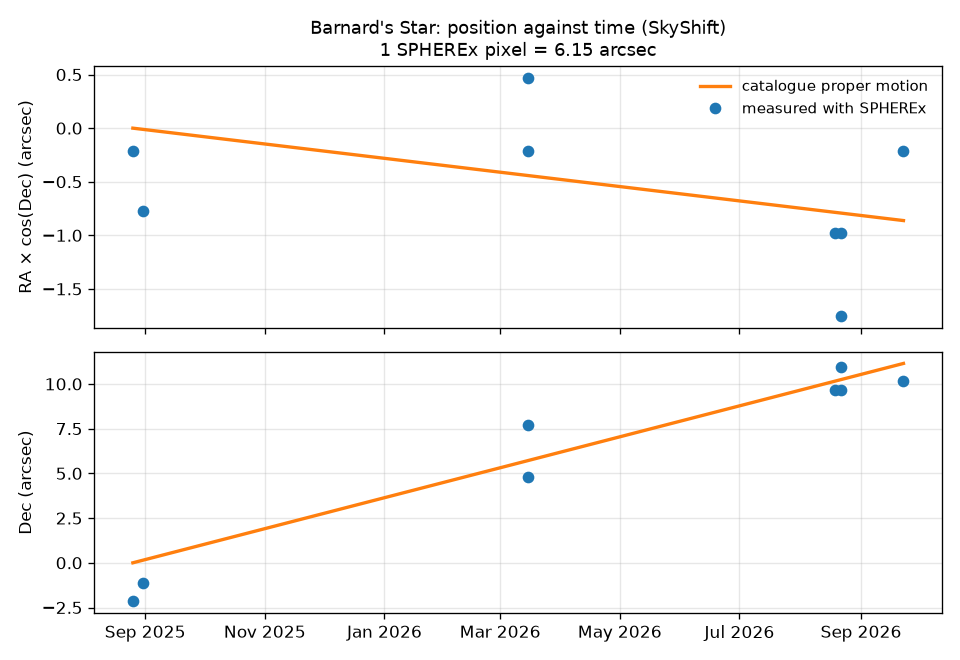
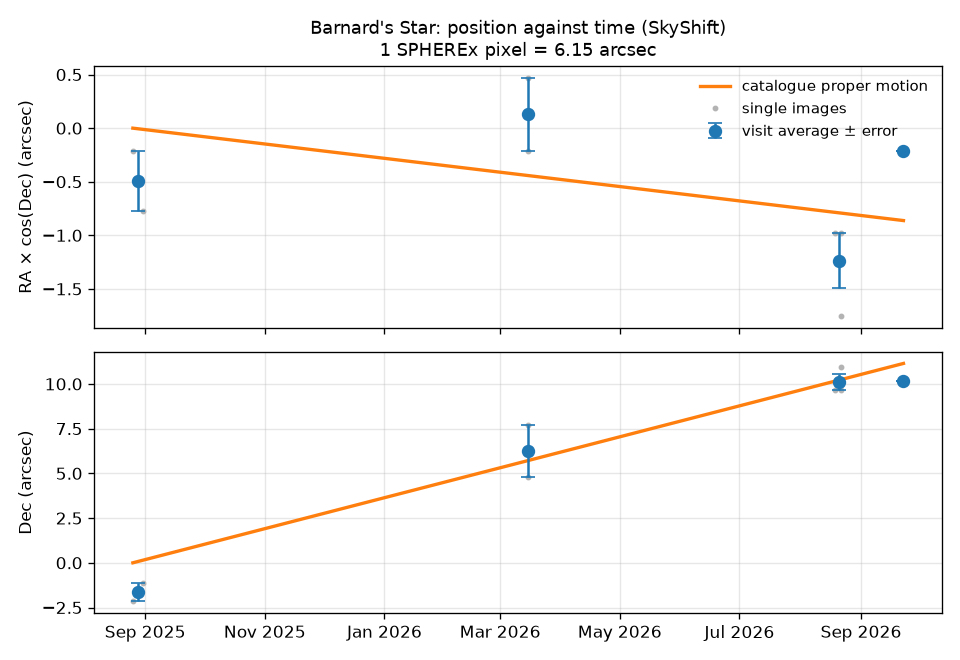
Plots against time: one point per visit with its error bar

diff --git a/pipeline/plot_time.py b/pipeline/plot_time.py
@@ -32,6 +32,27 @@ MOVERS = {"barnard", "eps-indi-b", "wise-0855-stacked"}  # objects whose motion 
 SKIP = {"wise-0855"}  # too faint in single images: use wise-0855-stacked
 
 
+def visits(frames, gap_days=30):
+    """Group frames (sorted by date) into SPHEREx visits separated by more than gap_days."""
+    frames = sorted(frames, key=lambda f: f["mjd"])
+    groups = [[frames[0]]]
+    for f in frames[1:]:
+        if f["mjd"] - groups[-1][-1]["mjd"] > gap_days:
+            groups.append([])
+        groups[-1].append(f)
+    return groups
+
+
+def summary(values):
+    """Mean and its uncertainty (standard deviation / sqrt(n)); None if a single value."""
+    n = len(values)
+    mean = sum(values) / n
+    if n < 2:
+        return mean, None
+    sd = math.sqrt(sum((v - mean) ** 2 for v in values) / (n - 1))
+    return mean, sd / math.sqrt(n)
+
+
 def usable(frame):
     m = frame.get("measured")
     return m is not None and frame.get("detected", True)
@@ -54,7 +75,15 @@ def plot_motion(manifest, out):
     fig, axes = plt.subplots(2, 1, figsize=(8, 5.5), dpi=120, sharex=True)
     for k, (ax, label) in enumerate(zip(axes, ["RA × cos(Dec)", "Dec"])):
         ax.plot(dates, [p[k] for p in pred], "-", color="C1", lw=2, label="catalogue proper motion")
-        ax.plot(dates, [m[k] for m in meas], "o", color="C0", ms=6, label="measured with SPHEREx")
+        ax.plot(dates, [m[k] for m in meas], ".", color="0.7", ms=5, label="single images")
+        vx, vy, ve = [], [], []
+        for g in visits(frames):
+            vals = [offsets(f["measured"])[k] for f in g]
+            mean, err = summary(vals)
+            vx.append(Time(sum(f["mjd"] for f in g) / len(g), format="mjd").datetime)
+            vy.append(mean)
+            ve.append(err or 0)
+        ax.errorbar(vx, vy, yerr=ve, fmt="o", color="C0", ms=7, capsize=4, label="visit average ± error")
         ax.set_ylabel(f"{label} (arcsec)")
         ax.grid(alpha=0.3)
     axes[0].legend(frameon=False, fontsize=9)
@@ -75,7 +104,16 @@ def plot_lightcurve(manifest, out):
     flux = [f["measured"]["flux_rel"] for f in frames]
     fig, ax = plt.subplots(figsize=(8, 4), dpi=120)
     # Points only: SPHEREx visits are months apart, so we do not know what happens in between.
-    ax.plot(dates, flux, "o", color="C0", ms=6)
+    # Grey: single images. Blue: average of each visit with its uncertainty.
+    ax.plot(dates, flux, ".", color="0.7", ms=5, label="single images")
+    vx, vy, ve = [], [], []
+    for g in visits(frames):
+        mean, err = summary([f["measured"]["flux_rel"] for f in g])
+        vx.append(Time(sum(f["mjd"] for f in g) / len(g), format="mjd").datetime)
+        vy.append(mean)
+        ve.append(err or 0)
+    ax.errorbar(vx, vy, yerr=ve, fmt="o", color="C0", ms=7, capsize=4, label="visit average ± error")
+    ax.legend(frameon=False, fontsize=9)
     ax.set_ylabel("Relative brightness")
     ax.xaxis.set_major_formatter(mdates.DateFormatter("%b %Y"))
     ax.grid(alpha=0.3)
